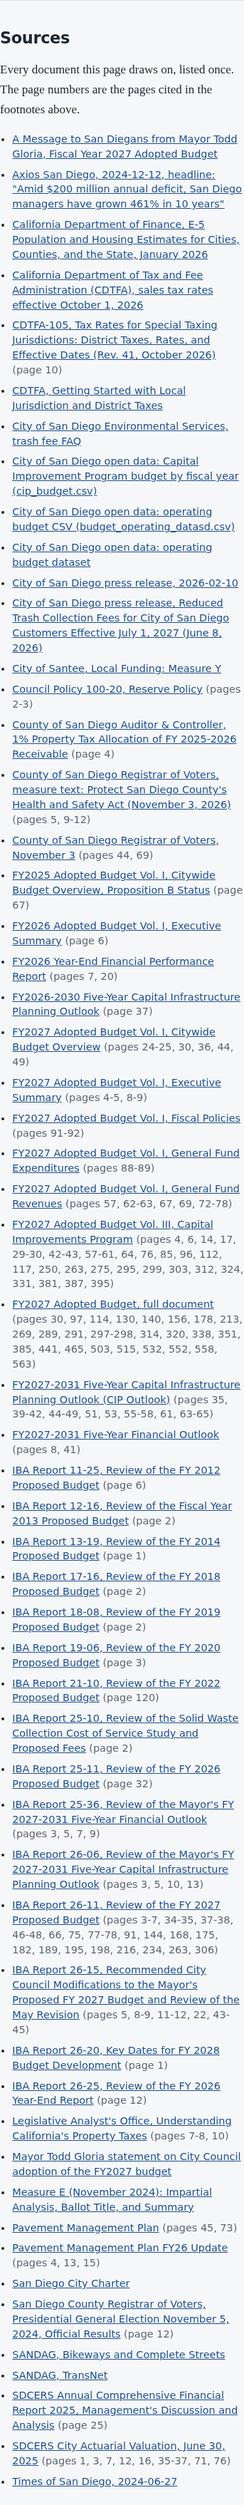
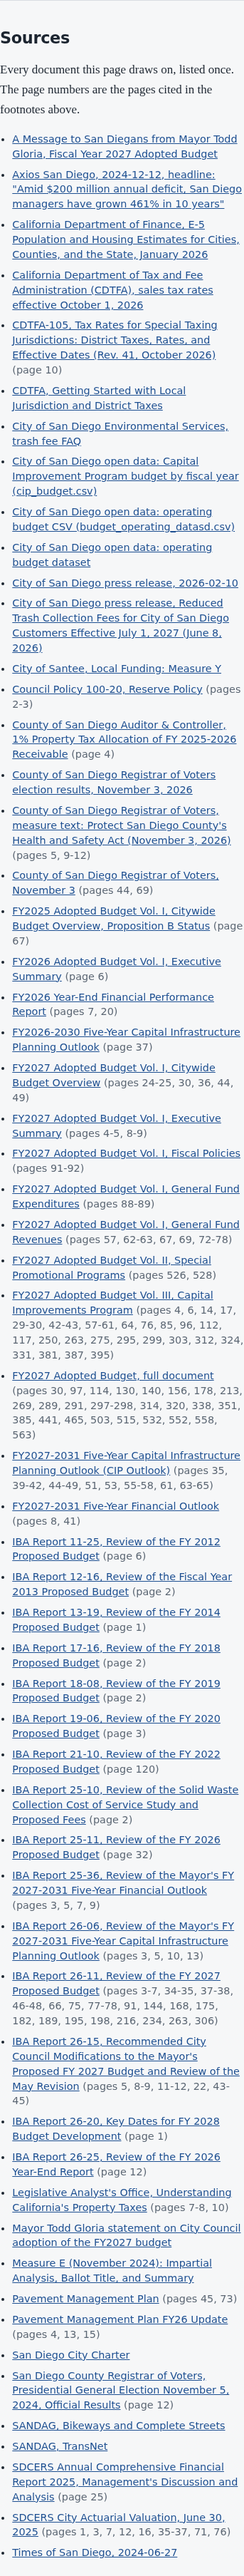
feat(site): light/dark toggle; Nov 3 results; where the hotel tax's Council cent goes
Theme: a sun/moon button in the section bar sets data-theme on <html> and remembers the choice
(localStorage; an inline head script applies it before first paint). Dark tokens now apply under
the system preference unless the reader chose light, and under the explicit choice. Charts drawn
through observeWidth() redraw on a 'themechange' event; the four explicit prefers-color-scheme
listeners use onThemeChange() instead. The acceptance run clicks the toggle, checks the tokens,
the stored choice and the reload.

Ballot: Measure B passed (52.91% to 47.09%) and Santee's Measure Y failed (58.95% no), per the
Registrar's unofficial count posted Nov 10, 2026; the copy says the counts are unofficial until
certified. The context paragraphs switch tense accordingly.

Hotel tax: the 1 cent the Council directs sits in the TOT fund rather than counting as General
Fund income, and for FY2027 the Council sent all of it, $30.2M, to the General Fund (Vol. II,
Special Promotional Programs, pp. 526-528).

Changed region(s): [[0.0, 0.0, 0.9913, 0.9923]]

diff --git a/site/why.js b/site/why.js
@@ -2,6 +2,7 @@
 import { figureSpan, mountPopovers, h, fig, cite } from './sources.js';
 import * as centsBar from './charts/cents-bar.js';
 import { observeWidth } from './charts/util.js';
+import { onThemeChange } from './theme.js';
 
 // Sales-tax rates as HTML bars, highest first; widths are a share of the highest rate (bars start at zero).
 export function rateBars(peers) {
@@ -20,14 +21,14 @@ export function ballotParas(b) {
   const co = b.county, sa = b.santee;
   const popM = (p) => `${(p.value / 1e6).toFixed(2)} million`;
   return [
-    h('p', 'ballot-note', `The County estimates that ${co.measure} would raise `, fig(co.est_low_m, mText(co.est_low_m.value)), ' to ',
+    h('p', 'ballot-note', `The County estimates that ${co.measure} will raise `, fig(co.est_low_m, mText(co.est_low_m.value)), ' to ',
       fig(co.est_high_m, mText(co.est_high_m.value)), ' a year, ', cite(co.cites.question, 'with no end date'), '. Spread over the county’s ',
       fig(co.population, popM(co.population)), ' residents, that is about ', fig(co.per_resident_low, `$${co.per_resident_low.value}`), ' to ',
       fig(co.per_resident_high, `$${co.per_resident_high.value}`), ' per person per year, though visitors and businesses pay part of any sales tax. ',
-      cite(co.cites.county_fund, 'The money would go to the County of San Diego, not to cities'), ': its spending plan allows ',
+      cite(co.cites.county_fund, 'The money goes to the County of San Diego, not to cities'), ': its spending plan allows ',
       ...co.shares.flatMap((sh, i) => [i ? (i === co.shares.length - 1 ? ', and ' : ', ') : '', fig(sh.pct, shareText(sh)), ` for ${sh.label}`]),
-      '. None of it would flow into the City of San Diego’s budget.'),
-    h('p', 'ballot-note', `Santee’s ${sa.measure}, a one-cent tax for `, fig(sa.years, `${sa.years.value} years`), ', is estimated to raise about ',
+      '. None of it flows into the City of San Diego’s budget.'),
+    h('p', 'ballot-note', `Santee’s ${sa.measure} would have been a one-cent tax for `, fig(sa.years, `${sa.years.value} years`), ', estimated to raise about ',
       fig(sa.est_m, `$${sa.est_m.value}M`), ' a year for that city, about ', fig(sa.per_resident, `$${sa.per_resident.value}`), ' per Santee resident, ',
       cite(sa.cites.uses, 'for streets, storm drains, and fire and emergency services'), '.'),
   ];
@@ -119,15 +120,20 @@ export function blocks(d) {
       countyList(co),
       h('p', 'chart-cap', `Total rate charged at the register, effective ${co.effective}. Grey: the countywide rate. Teal: the city’s own tax. Unincorporated areas of the county pay `,
         fig(co.unincorporated_pct, pctText(co.unincorporated_pct.value)), '.'),
-      h('p', null, 'On November 3, 2026, county voters decide on ', cite(co.cites.ballot_county, 'a countywide half-cent sales tax (Measure B)'),
-        ', which would apply in every city, San Diego included, and Santee voters on ', cite(co.cites.ballot_santee, 'a one-cent city sales tax (Measure Y)'), '.'),
+      h('p', null, 'On November 3, 2026, county voters approved ', cite(co.cites.ballot_county, 'a countywide half-cent sales tax (Measure B)'),
+        ', which applies in every city, San Diego included, by ', fig(co.ballot.county.results.yes_pct, pctText(co.ballot.county.results.yes_pct.value)),
+        ' to ', fig(co.ballot.county.results.no_pct, pctText(co.ballot.county.results.no_pct.value)), '. Santee voters rejected ',
+        cite(co.cites.ballot_santee, 'a one-cent city sales tax (Measure Y)'), ', ', fig(co.ballot.santee.results.no_pct, pctText(co.ballot.santee.results.no_pct.value)),
+        ' to ', fig(co.ballot.santee.results.yes_pct, pctText(co.ballot.santee.results.yes_pct.value)), '. ',
+        cite(co.ballot.cites.unofficial, 'Both counts are unofficial until the Registrar of Voters finishes counting and certifies them'), '.'),
       ...ballotParas(co.ballot)),
     block('Hotel tax: part of it goes to promoting tourism',
       ['Hotel guests pay a base hotel tax (transient occupancy tax) of ', fig(ho.base_cents, centsWord(ho.base_cents.value)),
-        ' per dollar of rent, and city law sends ', fig(ho.gf_cents, centsWord(ho.gf_cents.value)), ' of it (', fig(ho.gf_m, mText(ho.gf_m.value)),
-        ' in FY2027) to the General Fund. Of the rest, ', fig(ho.promo_cents, centsWord(ho.promo_cents.value)),
-        ' go to promoting tourism, some of it paid back to the General Fund for costs such as safety and upkeep around visitor sites, and ',
-        fig(ho.council_cents, centsWord(ho.council_cents.value)), ' can go to any purpose the City Council approves.'],
+        ' per dollar of rent, and city law splits it three ways. ', fig(ho.gf_cents, centsWord(ho.gf_cents.value)), ' (', fig(ho.gf_m, mText(ho.gf_m.value)),
+        ' in FY2027) is General Fund income by law. ', fig(ho.promo_cents, centsWord(ho.promo_cents.value)),
+        ' go to a separate fund for promoting tourism, some of it paid back to the General Fund for costs such as safety and upkeep around visitor sites. The last ',
+        fig(ho.council_cents, centsWord(ho.council_cents.value)), ' can go to any purpose the City Council approves: it sits in that separate fund rather than counting as General Fund income, and the Council decides each year. ',
+        cite(c.council_to_gf, 'For FY2027 the Council sent the whole cent to the General Fund'), ' (', fig(ho.council_m, mText(ho.council_m.value)), ').'],
       [cite(c.measure_c, 'A further hotel tax that voters approved in March 2020 (Measure C), collected since May 2025, can pay only for the Convention Center and homelessness programs, and from November 2030 also street repair.')]),
     block('Trash pickup: free for a century',
       [cite(c.peoples_ordinance, 'From 1919 until 2025, a voter-approved law (the People’s Ordinance) had the city pick up trash from most single-family homes for free'),
@@ -203,7 +209,7 @@ export function renderWhy(el, d) {
     mountPopovers(centsEl);
   };
   observeWidth(centsEl, draw);
-  window.matchMedia('(prefers-color-scheme: dark)').addEventListener('change', draw);
+  onThemeChange(draw);
   const blocksEl = el.querySelector('#s2-blocks');
   blocksEl.replaceChildren(...blocks(d));
   mountPopovers(blocksEl);

diff --git a/site/styles.css b/site/styles.css
@@ -23,8 +23,25 @@
   /* section 2: the context segments of the cents bar and the other cities' rate bars (the highlight is --gap) */
   --cents-a: #8a95a1; --cents-b: #b4bcc5;
 }
+/* Dark tokens apply when the system prefers dark and the reader hasn't chosen light, or when they chose dark (site/theme.js). */
 @media (prefers-color-scheme: dark) {
-  :root {
+  :root:not([data-theme="light"]) {
+    --bg: #11161c;
+    --surface: #1a212a;
+    --text: #e6e9ed;
+    --muted: #9aa5b1;
+    --rule: #2e3844;
+    --link: #8ab4f0;
+    --locked: #8c97a5;
+    --restricted: #4fb3bf;
+    --discretionary: #8e9de0;
+    --gap: #ff6f9c;
+    --cat-1: #3987e5; --cat-2: #d95926; --cat-3: #199e70; --cat-4: #c98500; --cat-5: #d55181;
+    --cat-6: #008300; --cat-7: #9085e9; --cat-8: #e66767; --cat-9: #1597ae; --cat-10: #b07434;
+    --cents-a: #6b7682; --cents-b: #4a5561;
+    }
+}
+:root[data-theme="dark"] {
     --bg: #11161c;
     --surface: #1a212a;
     --text: #e6e9ed;
@@ -39,7 +56,8 @@
     --cat-6: #008300; --cat-7: #9085e9; --cat-8: #e66767; --cat-9: #1597ae; --cat-10: #b07434;
     --cents-a: #6b7682; --cents-b: #4a5561;
   }
-}
+:root[data-theme="light"] { color-scheme: light; }
+:root[data-theme="dark"] { color-scheme: dark; }
 * { box-sizing: border-box; }
 /* overflow-x on html propagates to the viewport; on body it would make body the sticky containing block (no sticky bars). */
 html { scroll-behavior: smooth; scroll-padding-top: 56px; overflow-x: hidden; } /* scroll-padding: under the sticky section bar */
@@ -75,6 +93,23 @@ a { color: var(--link); }
 .secbar a:hover { color: var(--text); }
 .secbar a[aria-current="true"] { color: var(--text); border-bottom-color: var(--text); }
 #progress { position: absolute; left: 0; bottom: -1px; height: 2px; width: 0; background: var(--gap); }
+/* Theme toggle: at the bar's right edge (the stage's edge on wide screens); the list leaves room for it. */
+.secbar { position: sticky; }
+@media (max-width: 899px) { .secbar ul { margin-right: calc(var(--gutter) + 40px); } } /* the strip ends before the button */
+@media (min-width: 900px) { .secbar ul { padding-right: calc(var(--gutter) + 40px); } }
+.theme-btn {
+  position: absolute; top: 50%; transform: translateY(-50%); right: max(var(--gutter), calc((100% - 1200px) / 2 + var(--gutter)));
+  width: 36px; height: 36px; padding: 0; border: 1px solid var(--rule); border-radius: 50%; background: var(--surface); color: var(--muted);
+  display: inline-flex; align-items: center; justify-content: center; cursor: pointer;
+}
+.theme-btn:hover { color: var(--text); }
+.theme-btn svg { width: 18px; height: 18px; }
+.theme-btn .moon, :root[data-theme="dark"] .theme-btn .sun { display: none; }
+:root[data-theme="dark"] .theme-btn .moon { display: block; }
+@media (prefers-color-scheme: dark) {
+  :root:not([data-theme="light"]) .theme-btn .sun { display: none; }
+  :root:not([data-theme="light"]) .theme-btn .moon { display: block; }
+}
 
 .masthead { padding-top: 40px; padding-bottom: 24px; }
 h1, h2 { font-family: var(--font-ui); letter-spacing: -0.015em; line-height: 1.15; margin: 0; }

diff --git a/site/theme.js b/site/theme.js
@@ -1,0 +1,49 @@
+// Light/dark theme: follows the system unless the reader picks one with the toggle. resolveTheme() and nextTheme()
+// are pure (Node-testable); mountThemeToggle() wires the button, and onThemeChange() lets charts redraw.
+const KEY = 'theme';
+const listeners = [];
+
+export const resolveTheme = (stored, prefersDark) => (stored === 'dark' || stored === 'light' ? stored : prefersDark ? 'dark' : 'light');
+export const nextTheme = (current) => (current === 'dark' ? 'light' : 'dark');
+
+export function onThemeChange(cb) {
+  listeners.push(cb);
+  return () => { const i = listeners.indexOf(cb); if (i >= 0) listeners.splice(i, 1); };
+}
+
+const mq = () => window.matchMedia('(prefers-color-scheme: dark)');
+export const currentTheme = () => resolveTheme(document.documentElement.dataset.theme, mq().matches);
+
+function notify(theme) {
+  listeners.forEach((cb) => cb(theme));
+  document.dispatchEvent(new CustomEvent('themechange', { detail: theme }));
+}
+
+function label(btn, theme) {
+  const to = nextTheme(theme);
+  btn.setAttribute('aria-label', `Switch to ${to} mode`);
+  btn.title = `Switch to ${to} mode`;
+}
+
+export function mountThemeToggle(btn) {
+  if (!btn) return;
+  let stored = null;
+  try { stored = localStorage.getItem(KEY); } catch { /* storage blocked: the toggle still works for this visit */ }
+  const start = resolveTheme(stored, mq().matches);
+  if (stored === 'dark' || stored === 'light') document.documentElement.dataset.theme = stored; // index.html set it early too
+  label(btn, start);
+  btn.addEventListener('click', () => {
+    const theme = nextTheme(currentTheme());
+    document.documentElement.dataset.theme = theme;
+    try { localStorage.setItem(KEY, theme); } catch { /* ignore */ }
+    label(btn, theme);
+    notify(theme);
+  });
+  // The system changes and the reader hasn't chosen: the page follows, and charts redraw.
+  mq().addEventListener('change', (e) => {
+    if (document.documentElement.dataset.theme) return;
+    const theme = e.matches ? 'dark' : 'light';
+    label(btn, theme);
+    notify(theme);
+  });
+}

diff --git a/site/index.html b/site/index.html
@@ -7,6 +7,7 @@
 <meta name="description" content="A plain-English look at the City of San Diego's budget: where the money comes from and goes, why the city is short, and what piles up, with every number traced to a document and page.">
 <link rel="icon" href="data:,">
 <link rel="stylesheet" href="styles.css">
+<script>try{var t=localStorage.getItem('theme');if(t==='dark'||t==='light')document.documentElement.dataset.theme=t;}catch(e){}</script>
 </head>
 <body>
 
@@ -31,6 +32,10 @@
     <li><a href="#sources">Sources</a></li>
     <li><a href="#glossary">Glossary</a></li>
   </ul>
+  <button type="button" class="theme-btn" id="theme-toggle" aria-label="Switch to dark mode">
+    <svg class="sun" viewBox="0 0 24 24" fill="none" stroke="currentColor" stroke-width="2" stroke-linecap="round" aria-hidden="true"><circle cx="12" cy="12" r="4"/><path d="M12 2v2M12 20v2M4.9 4.9l1.4 1.4M17.7 17.7l1.4 1.4M2 12h2M20 12h2M4.9 19.1l1.4-1.4M17.7 6.3l1.4-1.4"/></svg>
+    <svg class="moon" viewBox="0 0 24 24" fill="none" stroke="currentColor" stroke-width="2" stroke-linecap="round" stroke-linejoin="round" aria-hidden="true"><path d="M21 12.8A9 9 0 1 1 11.2 3a7 7 0 0 0 9.8 9.8z"/></svg>
+  </button>
   <div id="progress" role="progressbar" aria-label="Reading progress" aria-valuemin="0" aria-valuemax="100" aria-valuenow="0"></div>
 </nav>
 

diff --git a/site/app.js b/site/app.js
@@ -14,6 +14,7 @@ export { mountClaims, claimCardModel };
 import * as sankey from './charts/sankey.js';
 import { themeColors, observeWidth } from './charts/util.js';
 import { mountSectionBar } from './nav.js';
+import { mountThemeToggle, onThemeChange } from './theme.js';
 import * as bm from './charts/budget-map.js';
 import { renderWhy } from './why.js';
 export { renderWhy };
@@ -302,7 +303,7 @@ export function renderWhat(data) {
   observeWidth(cols.in, () => drawSide('in'));
   observeWidth(cols.out, () => drawSide('out'));
   showPanel(false);
-  window.matchMedia('(prefers-color-scheme: dark)').addEventListener('change', () => {
+  onThemeChange(() => {
     colors = mapColors();
     drawPots();
     drawSide('in');
@@ -416,6 +417,7 @@ export function guarded(name, mountId, fn) {
 async function main() {
   mountProgress();
   mountSectionBar();
+  mountThemeToggle(document.getElementById('theme-toggle'));
   mountDigDeeper(document);
   const data = await loadData();
   if (new URLSearchParams(location.search).has('debug')) window.__data = data;

diff --git a/site/piles.js b/site/piles.js
@@ -5,6 +5,7 @@ import { figureSpan, mountPopovers, h, fig, cite } from './sources.js';
 import * as piles from './charts/piles.js';
 import { inkOn } from './charts/budget-map.js';
 import { observeWidth } from './charts/util.js';
+import { onThemeChange } from './theme.js';
 
 const { m1, bn } = piles;
 const pctText = (v) => `${v}%`;
@@ -160,7 +161,7 @@ function pension(barsEl, payersEl, copy, dig, d) {
     mountPopovers(payersEl);
   };
   draw();
-  window.matchMedia('(prefers-color-scheme: dark)').addEventListener('change', draw);
+  onThemeChange(draw);
   copy.replaceChildren(
     p('Why it rose this year: ', cite(pn.rise_m.source, 'pay raises were bigger than the actuary had assumed'), ', which added ', fig(pn.rise_m, m1(pn.rise_m.value)), ' to the payment.'),
     p('Some relief is scheduled. The actuary projects ', fig(pn.fy2028_m, m1(pn.fy2028_m.value)), ' for FY2028 and then ', fig(pn.fy2029_m, m1(pn.fy2029_m.value)),

diff --git a/site/charts/util.js b/site/charts/util.js
@@ -9,12 +9,15 @@ export function themeColors() {
   return out;
 }
 
-// Calls cb(width) now and whenever el's width changes. Returns a disconnect function.
+// Calls cb(width) now, whenever el's width changes, and when the theme changes (so a chart drawn with themeColors()
+// takes the new colours). Returns a disconnect function.
 export function observeWidth(el, cb) {
   let last = -1;
   const fire = (w) => { w = Math.round(w); if (w !== last) { last = w; cb(w); } };
   const ro = new ResizeObserver((entries) => fire(entries[0].contentRect.width));
   ro.observe(el);
   fire(el.getBoundingClientRect().width);
-  return () => ro.disconnect();
+  const retheme = () => { if (last > 0) cb(last); };
+  document.addEventListener('themechange', retheme);
+  return () => { ro.disconnect(); document.removeEventListener('themechange', retheme); };
 }

diff --git a/site-tests/sections.test.js b/site-tests/sections.test.js
@@ -364,3 +364,16 @@ test('section bar: the current chapter is the last one whose top is above the re
   assert.equal(currentSection(tops, 3000), 'why-short');
   assert.equal(currentSection(tops, 99999), 'gap');
 });
+
+// ---- Theme toggle ----
+import { resolveTheme, nextTheme } from '../site/theme.js';
+
+test('theme: a stored choice wins, otherwise the system preference; the toggle flips it', () => {
+  assert.equal(resolveTheme(null, true), 'dark');
+  assert.equal(resolveTheme(null, false), 'light');
+  assert.equal(resolveTheme('light', true), 'light');
+  assert.equal(resolveTheme('dark', false), 'dark');
+  assert.equal(resolveTheme('bogus', true), 'dark');
+  assert.equal(nextTheme('dark'), 'light');
+  assert.equal(nextTheme('light'), 'dark');
+});

diff --git a/site/gapstory.js b/site/gapstory.js
@@ -6,6 +6,7 @@ import { moneyToken } from './format.js';
 import * as waterfall from './charts/waterfall.js';
 import * as timeline from './charts/gap-timeline.js';
 import { themeColors, observeWidth } from './charts/util.js';
+import { onThemeChange } from './theme.js';
 
 // The "what's coming" note as text and sourced parts: the city's figure becomes a .figure, the forecast date a cite.
 // The build checks the note shows the figure as moneyToken() writes it and contains the cite anchor; if either is
@@ -129,7 +130,7 @@ function waterfallBlock(el, d) {
     ariaLabel: aria,
   });
   observeWidth(plot, draw);
-  window.matchMedia('(prefers-color-scheme: dark)').addEventListener('change', draw);
+  onThemeChange(draw);
   mountPopovers(el);
 }
 

diff --git a/tests/test_curated_v2.py b/tests/test_curated_v2.py
@@ -202,6 +202,8 @@ def test_why_short_sources_and_arithmetic():
     assert d["trash"]["settlement_gf_fy2028_m"]["source"]["page"] == 45
     h = d["hotel"]
     assert (h["promo_cents"]["value"], h["council_cents"]["value"]) == (4.0, 1.0)
+    assert h["council_m"]["value"] == 30.16269 and h["council_m"]["source"]["page"] == 526
+    assert "Support to General Fund" in d["cites"]["council_to_gf"]["doc"]
     assert "June 2, 2026" in d["trash"]["settlement_gf_fy2028_m"]["source"]["doc"]
     # November 3, 2026 measures: the County's estimate spread over the E-5 population, labeled our arithmetic
     b = d["sales_tax"]["county"]["ballot"]
@@ -212,6 +214,10 @@ def test_why_short_sources_and_arithmetic():
     assert [sh["pct"]["value"] for sh in b["county"]["shares"]] == [60, 22.5, 17.5, 1.5]
     assert b["santee"]["per_resident"]["value"] == round(14e6 / 59812) == 234
     assert b["santee"]["years"]["value"] == 10
+    # Results (unofficial count posted November 10, 2026): Measure B passed, Santee's Measure Y failed
+    assert b["county"]["results"]["passed"] is True and b["county"]["results"]["yes_pct"]["value"] == 52.91
+    assert b["santee"]["results"]["passed"] is False and b["santee"]["results"]["no_pct"]["value"] == 58.95
+    assert "unofficial" in b["cites"]["unofficial"]["doc"].lower()
 
 
 @pytest.mark.parametrize("edit, where", [
@@ -224,6 +230,8 @@ def test_why_short_sources_and_arithmetic():
     (lambda d: d["growth"].__setitem__("revenue_period", ""), "growth.revenue_period"),
     (lambda d: d["quote"]["source"].__setitem__("url", "http://x"), "quote.source"),
     (lambda d: d["hotel"]["promo_cents"].__setitem__("value", 5.0), "hotel"),
+    (lambda d: d["sales_tax"]["county"]["ballot"]["county"]["results"].__setitem__("passed", False), "results.passed"),
+    (lambda d: d["sales_tax"]["county"]["ballot"]["santee"]["results"]["no_pct"].__setitem__("value", 70), "results"),
 ])
 def test_why_short_rejects_bad_input(edit, where):
     d = copy.deepcopy(curated.load(CUR, "why_short"))

diff --git a/pipeline/build.py b/pipeline/build.py
@@ -473,7 +473,7 @@ WHY_GROUP_TOLERANCE = 0.05
 WHY_FIGURES = {
     "property_dollar": ("cities_cents",),
     "sales_tax": ("sd_rate_pct", "city_cents_of_rate"),
-    "hotel": ("base_cents", "gf_cents", "promo_cents", "council_cents", "gf_m"),
+    "hotel": ("base_cents", "gf_cents", "promo_cents", "council_cents", "gf_m", "council_m"),
     "trash": ("moved_m", "positions", "fee_monthly", "settlement_gf_fy2028_m"),
     "growth": ("revenue_pct", "inflation_pct"),
     "prop13": ("rate_pct", "cap_pct", "lag_low_months", "lag_high_months"),
@@ -640,6 +640,22 @@ def _check_ballot(b) -> dict:
     co["per_resident_low"] = _per_resident(co["est_low_m"], co["population"], "county")
     co["per_resident_high"] = _per_resident(co["est_high_m"], co["population"], "county")
     sa["per_resident"] = _per_resident(sa["est_m"], sa["population"], "santee")
+    for side in ("county", "santee"):
+        r = b[side].get("results")
+        if r is None:
+            continue
+        for k in ("yes_pct", "no_pct"):
+            _need_value(r.get(k), f"ballot.{side}.results.{k}")
+        yes, no = r["yes_pct"]["value"], r["no_pct"]["value"]
+        if not (0 < yes < 100 and 0 < no < 100 and abs(yes + no - 100) <= 0.05):
+            raise ValueError(f"ballot.{side}.results: yes_pct + no_pct must be 100")
+        if r.get("passed") is not (yes > no):
+            raise ValueError(f"ballot.{side}.results.passed: must match the percentages")
+        if not isinstance(r.get("as_of"), str) or not re.fullmatch(r"\d{4}-\d{2}-\d{2}", r["as_of"]):
+            raise ValueError(f"ballot.{side}.results.as_of: YYYY-MM-DD")
+    if "cites" in b:
+        for k, c in b["cites"].items():
+            _check_source(c, f"ballot.cites.{k}")
     return b
 
 
